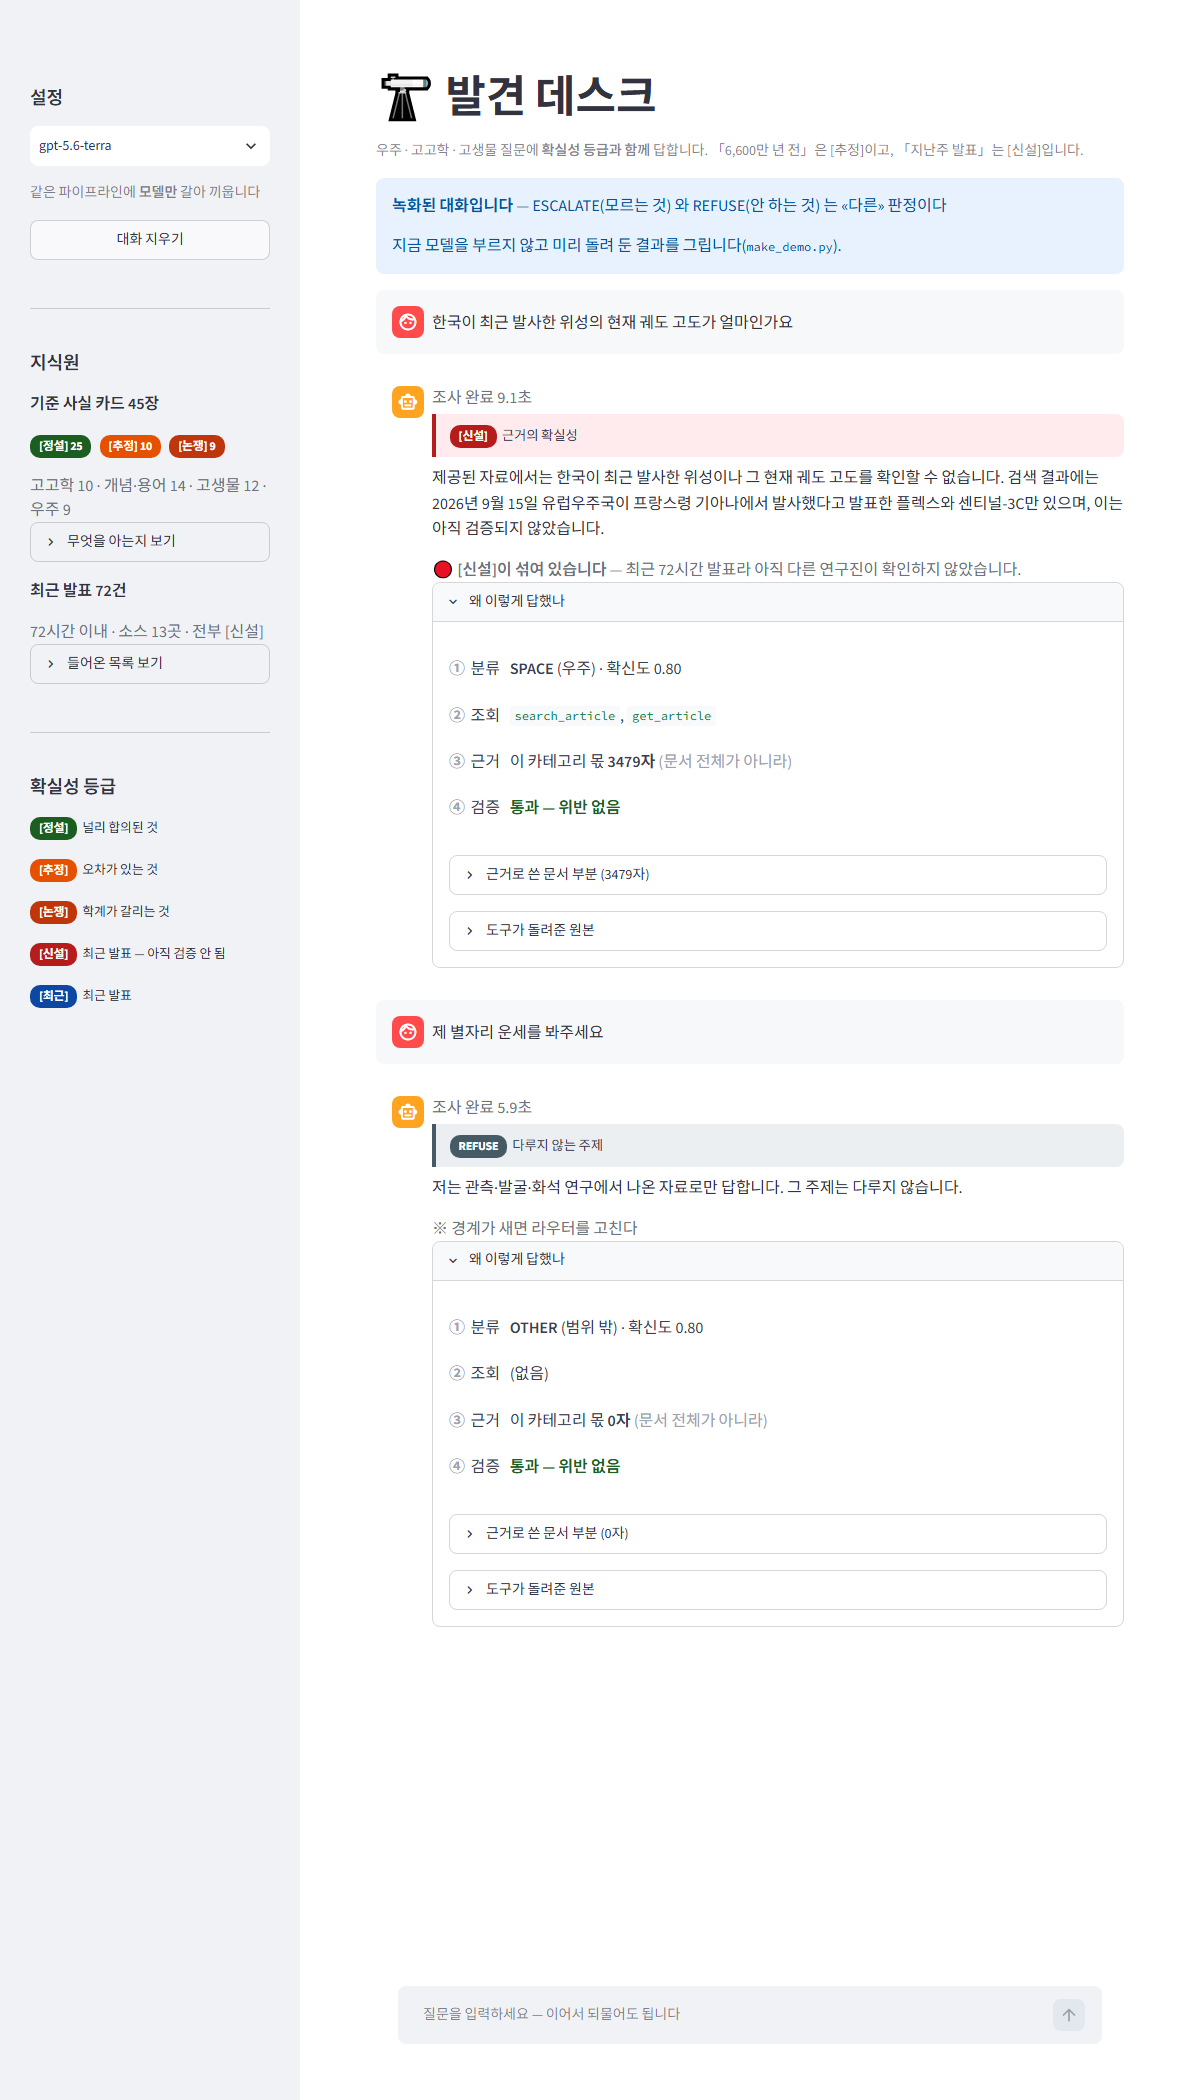
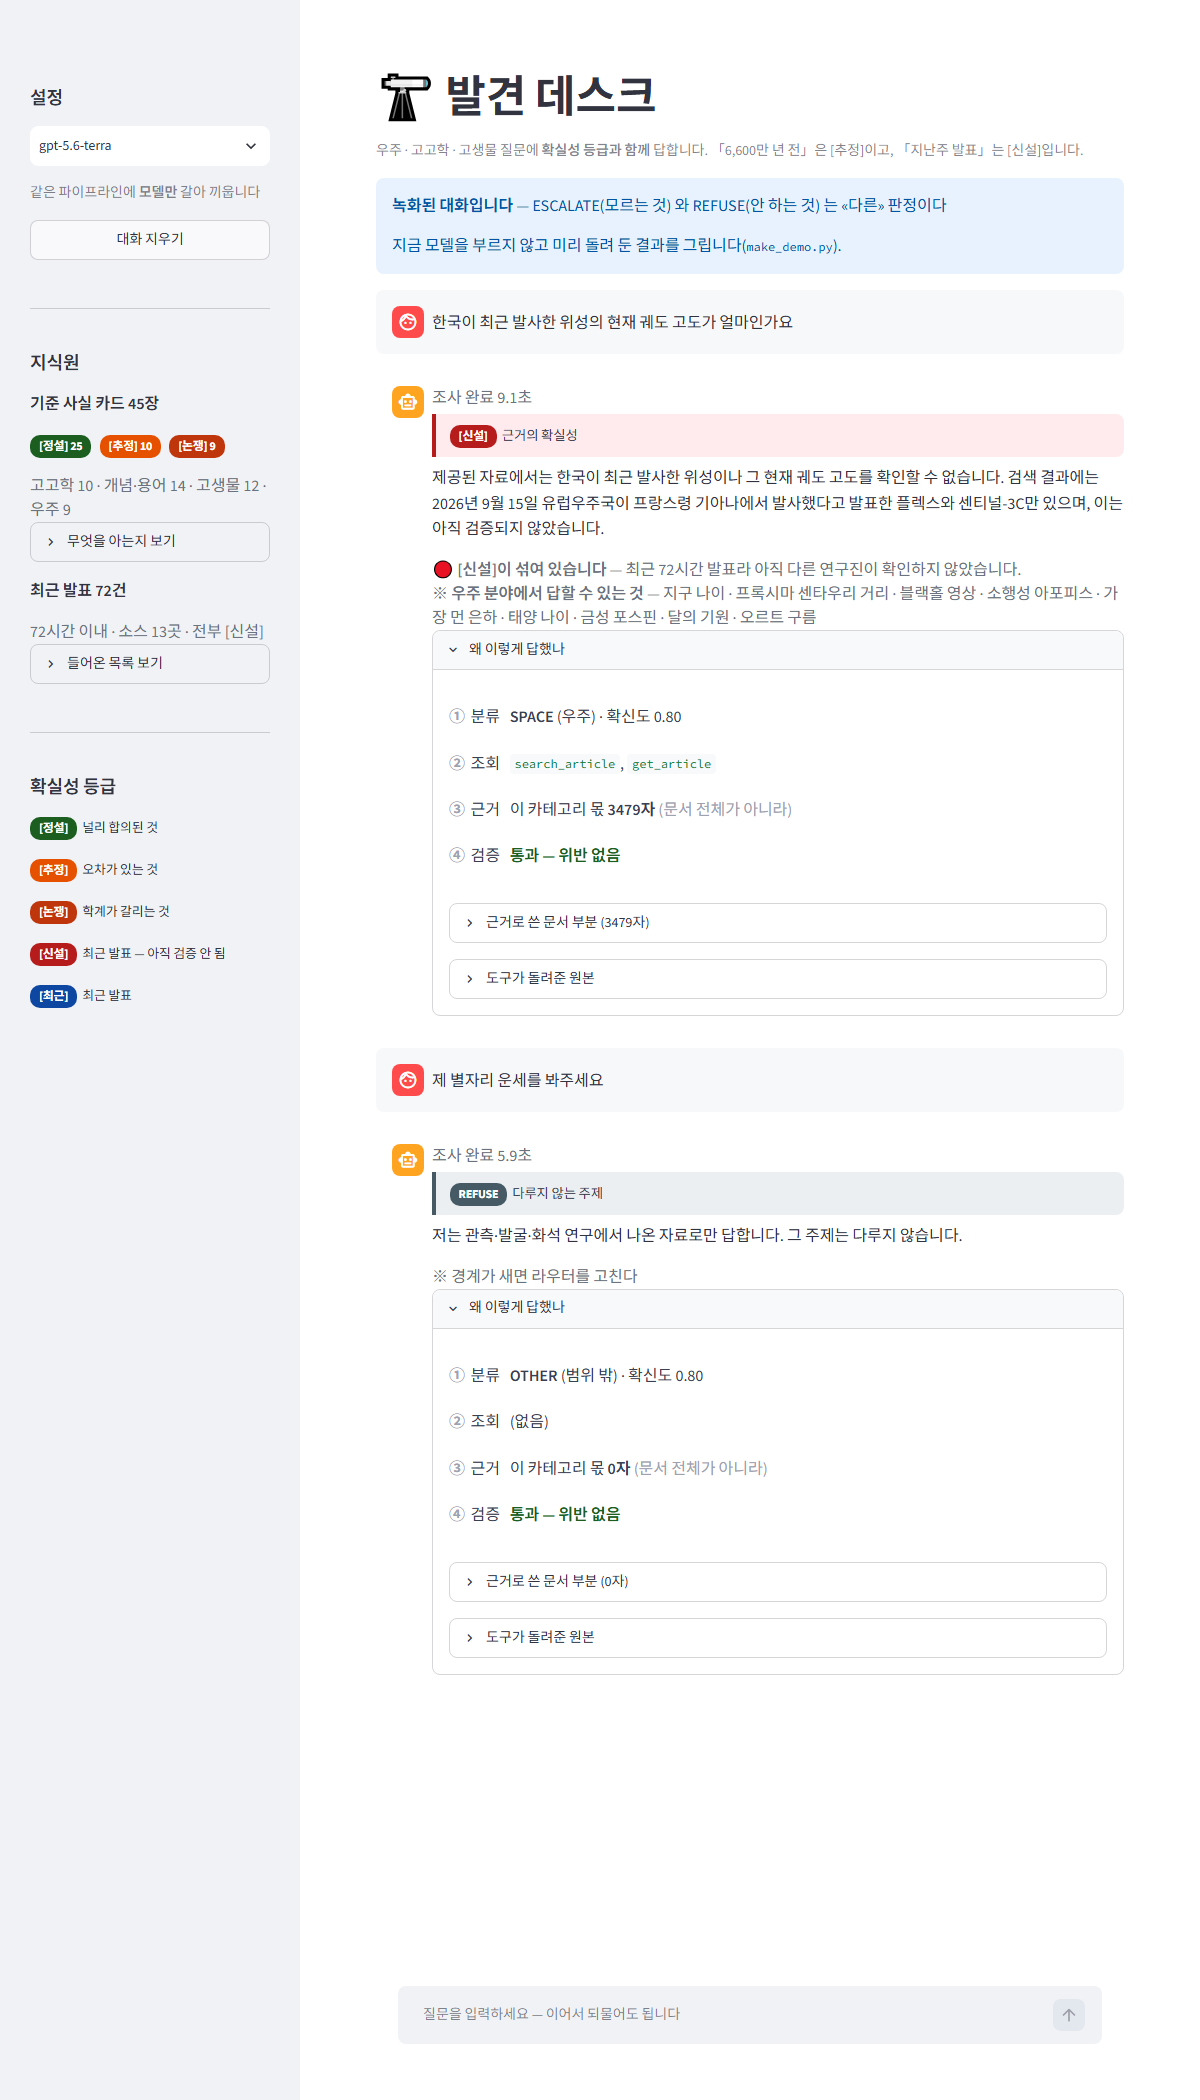
[content] 노드5 — ★직접 써 보니 «막다른 길»이었다 · 골든셋 100%
주영님이 데모를 직접 써 본 화면에서 나왔다 (2026-09-18)
  「오스트랄로피테쿠스가 네안데르탈인으로 진화했냐」 → 「확인되지 않습니다」
  「가장 큰 천체는?」                              → 「확인되지 않습니다」
  ⇒ 요건이 「근거 없이 답하지 마라」라서 «동작은 옳다».
    그런데 사용자는 «무엇을 물어야 하는지» 모른 채 막힌다.

고친 것 넷

1 ★「없다」로 끝내지 않는다 — 그 분야에서 «아는 것»을 함께 보여준다
  escalate_reply(route) + 화면의 render_known()
  ⇒ 모델이 카드를 찾아 CONTINUE 가 돼도 답변이 「확인되지 않습니다」면
    사용자에겐 막힌 것이다. 그래서 «화면»도 따로 판단한다.

2 ★「가장」을 불용어로
  「가장 큰 천체는?」이 ★「가장 먼 은하」 카드를 물어 왔다.
  「큰」과 「먼」은 다른데 «가장»이라는 흔한 수식어에서 점수가 났다.

3 ★한 단어 질의는 «주제어»에만 매치를 인정
  「천체」 한 단어가 두 카드의 claim 에 스쳐 지나가 동점이 됐다:
    「달의 기원」  「…화성 크기 «천체»가 충돌해…」
    「오르트 구름」 「…얼음 «천체» 껍질로…」
  ⇒ 한 단어는 claim 어디에 스쳐도 만점이 된다. 주제어에 있어야 그 카드다.

4 ★최소 점수 임계 — 그리고 «내가 만든 회귀»를 잡았다
  0.5 로 잡았더니 「스톤헨지 용도가 밝혀졌나」가 0.333 이라 걸러져
  골든셋이 96 -> 80% 로 «떨어졌다». 질문을 문장으로 쓰면 조사·어미가
  토큰에 남아 점수가 낮아진다는 걸 놓쳤다.
  ⇒ 0.3 으로 낮췄다. 「천체」 같은 한 단어는 3번 규칙이 따로 막는다.

★결과
  골든셋 25/25 = 100.0% (2회 연속)
  회귀 테스트 11/11 — 막혔던 질문도 고쳐진 질문도 전부
  감사 실패 0

★배운 것
  «직접 써 보지 않으면 안 보인다». 측정은 96% 였는데
  사용자가 두 번째 질문에서 막혔다. 평가셋에 없는 질문이었다.

Session: tutor

Changed region(s): [[0.3083, 0.2786, 0.8017, 0.8048], [0.6783, 0.5571, 0.8017, 0.5881], [0.8325, 0.2786, 0.8942, 0.3095]]

diff --git a/05_module5/d_hw_N5-discovery-desk/desk/tools_desk.py b/05_module5/d_hw_N5-discovery-desk/desk/tools_desk.py
@@ -23,7 +23,11 @@ _KB = json.loads((HERE / "store/knowledge.json").read_text(encoding="utf-8"))
 ARTICLES = _KB["articles"]
 FACTS = json.loads((HERE / "facts_base.json").read_text(encoding="utf-8"))["facts"]
 
+# ★「가장」을 넣은 이유 — 「가장 큰 천체는?」이 ★「가장 먼 은하」 카드를 물어 왔다.
+#   「큰」과 「먼」은 다른데 «가장»이라는 흔한 수식어에서 점수가 났다.
+#   불용어로 두면 「가장 먼 은하」 카드도 [먼, 은하]가 되어 제 질문에는 여전히 걸린다.
 _STOP = {"무엇", "뭐", "뭘", "어떻게", "왜", "언제", "어디", "누가", "인가요", "있나요",
+         "가장",
          "하나요", "되나요", "건가요", "나요", "가요", "요", "은", "는", "이", "가",
          "을", "를", "의", "에", "에서", "로", "으로", "와", "과", "도", "만"}
 
@@ -105,9 +109,13 @@ def get_fact(topic: str) -> dict:
     #   ⇒ 번역어는 «가르는 데만» 쓴다 — 원본이 이미 하나를 가리키면 그것이 답이다.
     #     (ko_en 의 「확장어는 원본보다 낮게 준다」와 같은 원리)
     def _rank(tokens):
+        # ★질의어가 «하나»면 주제어에만 인정한다.
+        #   한 단어는 claim 어디에 스쳐도 만점이 되어 동점을 만든다(실측: 「천체」).
+        topic_only = len(tokens) <= 1
         h = []
         for f in FACTS:
-            s = max(_score(tokens, f["topic"]), _score(tokens, f["claim"]) * 0.8)
+            st_ = _score(tokens, f["topic"])
+            s = st_ if topic_only else max(st_, _score(tokens, f["claim"]) * 0.8)
             if s > 0:
                 h.append((s, f))
         h.sort(key=lambda x: -x[0])
@@ -120,6 +128,16 @@ def get_fact(topic: str) -> dict:
     #   「빙하기 언제 끝」(빙하기 카드가 «없다»)이 번역어 「시점」 때문에
     #   ★「공룡 멸종 시점」을 물어 왔다. 없는 것을 있다고 답하는 것이 더 나쁘다.
     hits = _rank(plain)
+    # ★점수가 낮으면 «없는 것»으로 본다 — 되묻지 않는다.
+    #   「가장 큰 천체는?」이 「천체」 한 단어로 여러 카드에 얕게 걸려
+    #   ★「달의 기원 · 오르트 구름」을 후보로 되물었다. 답이 없는데 되묻는 것은
+    #   사용자를 헷갈리게만 한다 — 되묻기는 «둘 중 어느 쪽인지»를 물을 때 쓴다.
+    #   ⚠ 0.5 로 잡았다가 «회귀»를 만들었다 — 「스톤헨지 용도가 밝혀졌나」가
+    #     0.333 이라 걸러져 골든셋이 96 -> 80% 로 떨어졌다.
+    #     질문을 «문장으로» 쓰면 조사·어미가 토큰에 남아 점수가 낮아진다.
+    #   ⇒ 0.3 — 「천체」 같은 한 단어는 topic_only 규칙이 따로 막는다.
+    MIN_SCORE = 0.3
+    hits = [(sc, f) for sc, f in hits if sc >= MIN_SCORE]
     if not hits:
         return {"found": False, "note": "기준 사실 카드에 없습니다. 기사 검색을 쓰십시오."}
     top = [f for s, f in hits if abs(s - hits[0][0]) < 1e-9]

diff --git a/05_module5/d_hw_N5-discovery-desk/desk/app.py b/05_module5/d_hw_N5-discovery-desk/desk/app.py
@@ -197,6 +197,25 @@ def render_why(s):
         st.json(used)
 
 
+# ★답이 «막혔을» 때 무엇을 아는지 보여준다 — 실제로 써 보니 막다른 길이었다.
+#   ESCALATE 판정이 안 나도(모델이 카드를 찾아 CONTINUE 가 돼도)
+#   답변이 「확인되지 않습니다」면 사용자 입장에선 «막힌 것»이다.
+DEADEND = ("확인되지 않", "자료에 없", "근거가 없", "확인할 수 없")
+
+
+def render_known(s):
+    ans = s.get("answer") or ""
+    rt = s.get("route")
+    if not rt or rt == "OTHER" or not any(k in ans for k in DEADEND):
+        return
+    topics = [f["topic"] for f in S["facts"] if f["route"] == rt]
+    if not topics:
+        return
+    st.markdown('<p class="note">※ <b>%s 분야에서 답할 수 있는 것</b> — %s</p>'
+                % (ROUTE_KO.get(rt, rt), " · ".join(topics)),
+                unsafe_allow_html=True)
+
+
 def render_answer(s):
     # ★걸린 시간을 «말풍선 안»에 둔다 — 밖에 두면 rerun 뒤 사라진다(실측).
     #   Perplexity 의 「조사 완료 1초」에서 가져온 것인데, 우리는 20~60초라
@@ -227,6 +246,7 @@ def render_answer(s):
             st.markdown('<p class="note">🔴 <b>[신설]이 섞여 있습니다</b> — '
                         '최근 72시간 발표라 아직 다른 연구진이 확인하지 '
                         '않았습니다.</p>', unsafe_allow_html=True)
+    render_known(s)
     with st.expander("왜 이렇게 답했나", expanded=OPEN_WHY):
         render_why(s)
 

diff --git a/05_module5/d_hw_N5-discovery-desk/desk/escalate.py b/05_module5/d_hw_N5-discovery-desk/desk/escalate.py
@@ -96,6 +96,29 @@ ESCALATE_REPLY = (
     "자료에서 확인되지 않습니다. 저는 수집한 최근 발표와 기준 사실 카드로만 답하며, "
     "이 문의는 두 곳 모두에 근거가 없습니다.")
 
+
+def escalate_reply(route=None, limit=6):
+    """★「없다」로 «끝내지» 않는다 — 그 분야에서 아는 것을 함께 보여준다.
+
+    실제로 써 보니 「확인되지 않습니다」가 «막다른 길»이었다.
+    사용자는 다음에 무엇을 물어야 할지 알 수 없다.
+    ⇒ 근거 없이 답하지 «않으면서» 쓸모 있게 만드는 방법이다.
+    """
+    base = ESCALATE_REPLY
+    if not route or route == "OTHER":
+        return base
+    try:
+        import tools_desk
+        topics = [f["topic"] for f in tools_desk.FACTS if f["route"] == route]
+    except Exception:
+        return base
+    if not topics:
+        return base
+    shown = topics[:limit]
+    more = (" 외 %d가지" % (len(topics) - limit)) if len(topics) > limit else ""
+    return (base + " 이 분야에서 제가 답할 수 있는 것은 "
+            + " · ".join(shown) + more + " 입니다.")
+
 REFUSE_REPLY = (
     "저는 관측·발굴·화석 연구에서 나온 자료로만 답합니다. 그 주제는 다루지 않습니다.")
 

diff --git a/05_module5/d_hw_N5-discovery-desk/desk/agent.py b/05_module5/d_hw_N5-discovery-desk/desk/agent.py
@@ -345,7 +345,7 @@ def build(model="qwen2.5:7b", threshold=None):
         if dec == "REFUSE":
             reply = escalate.REFUSE_REPLY
         elif dec == "ESCALATE":
-            reply = escalate.ESCALATE_REPLY
+            reply = escalate.escalate_reply(st.get("route"))
         elif dec == "ASK":
             reply = escalate.ask_reply(st.get("used"))
         else:
